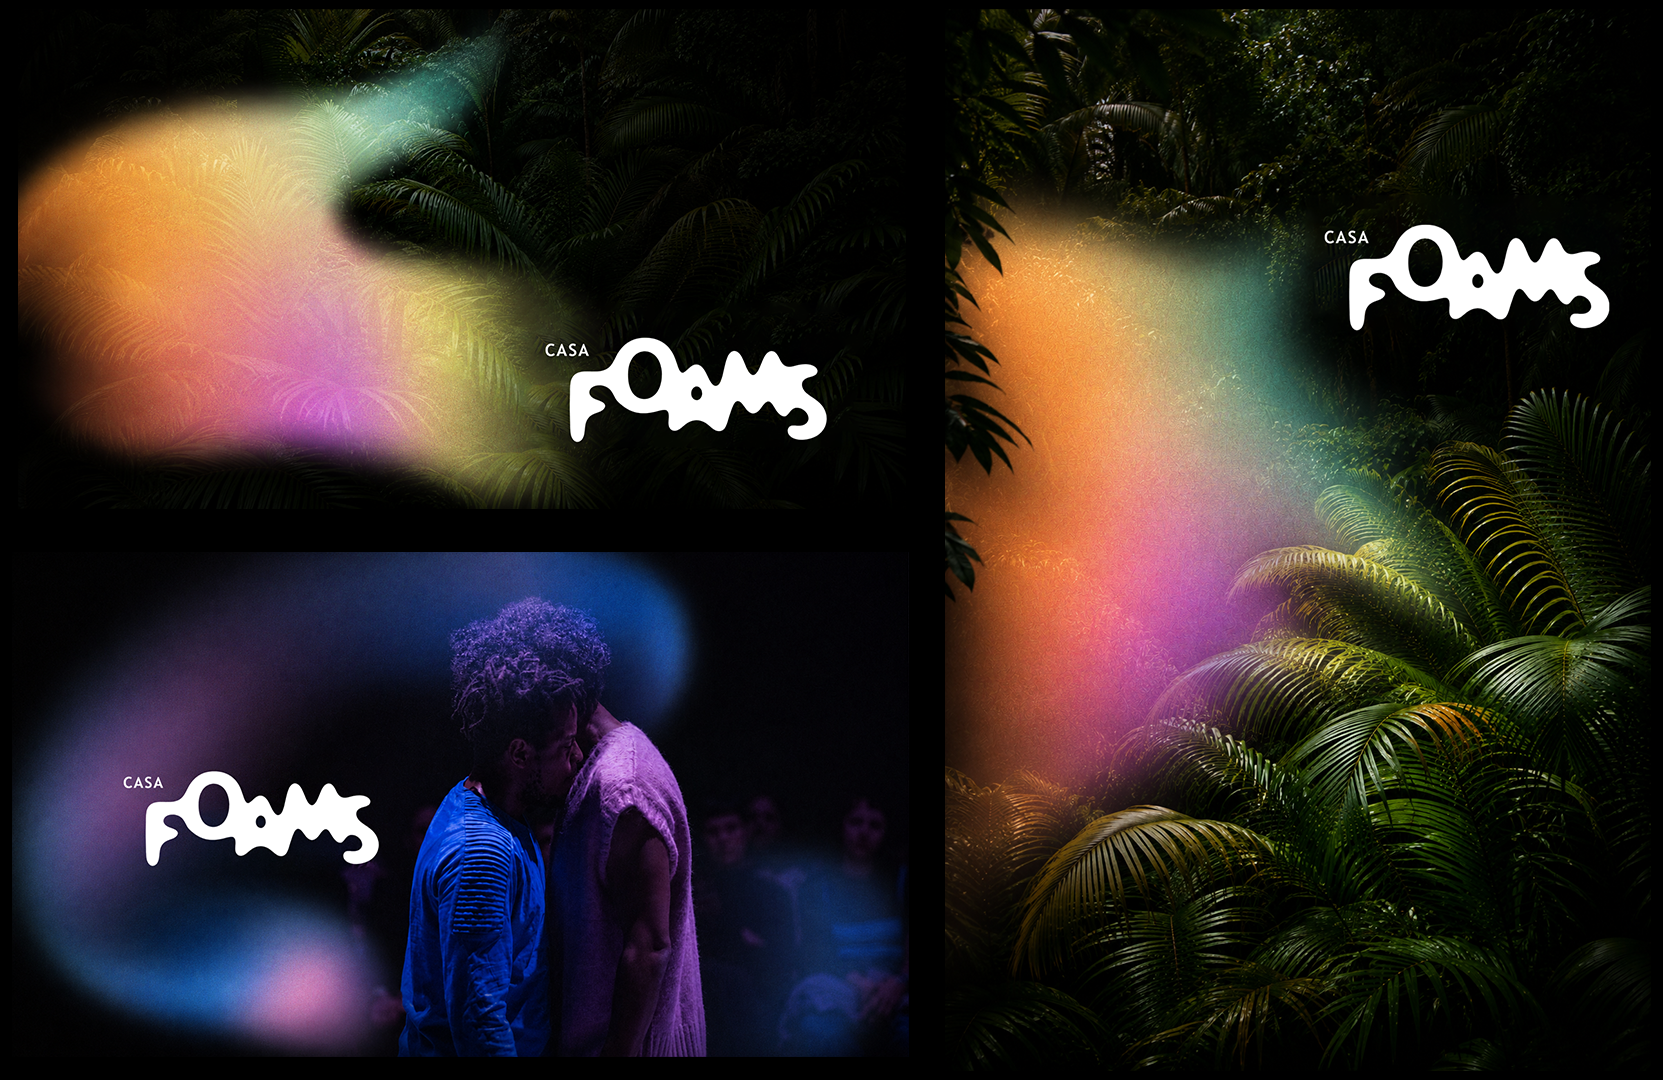
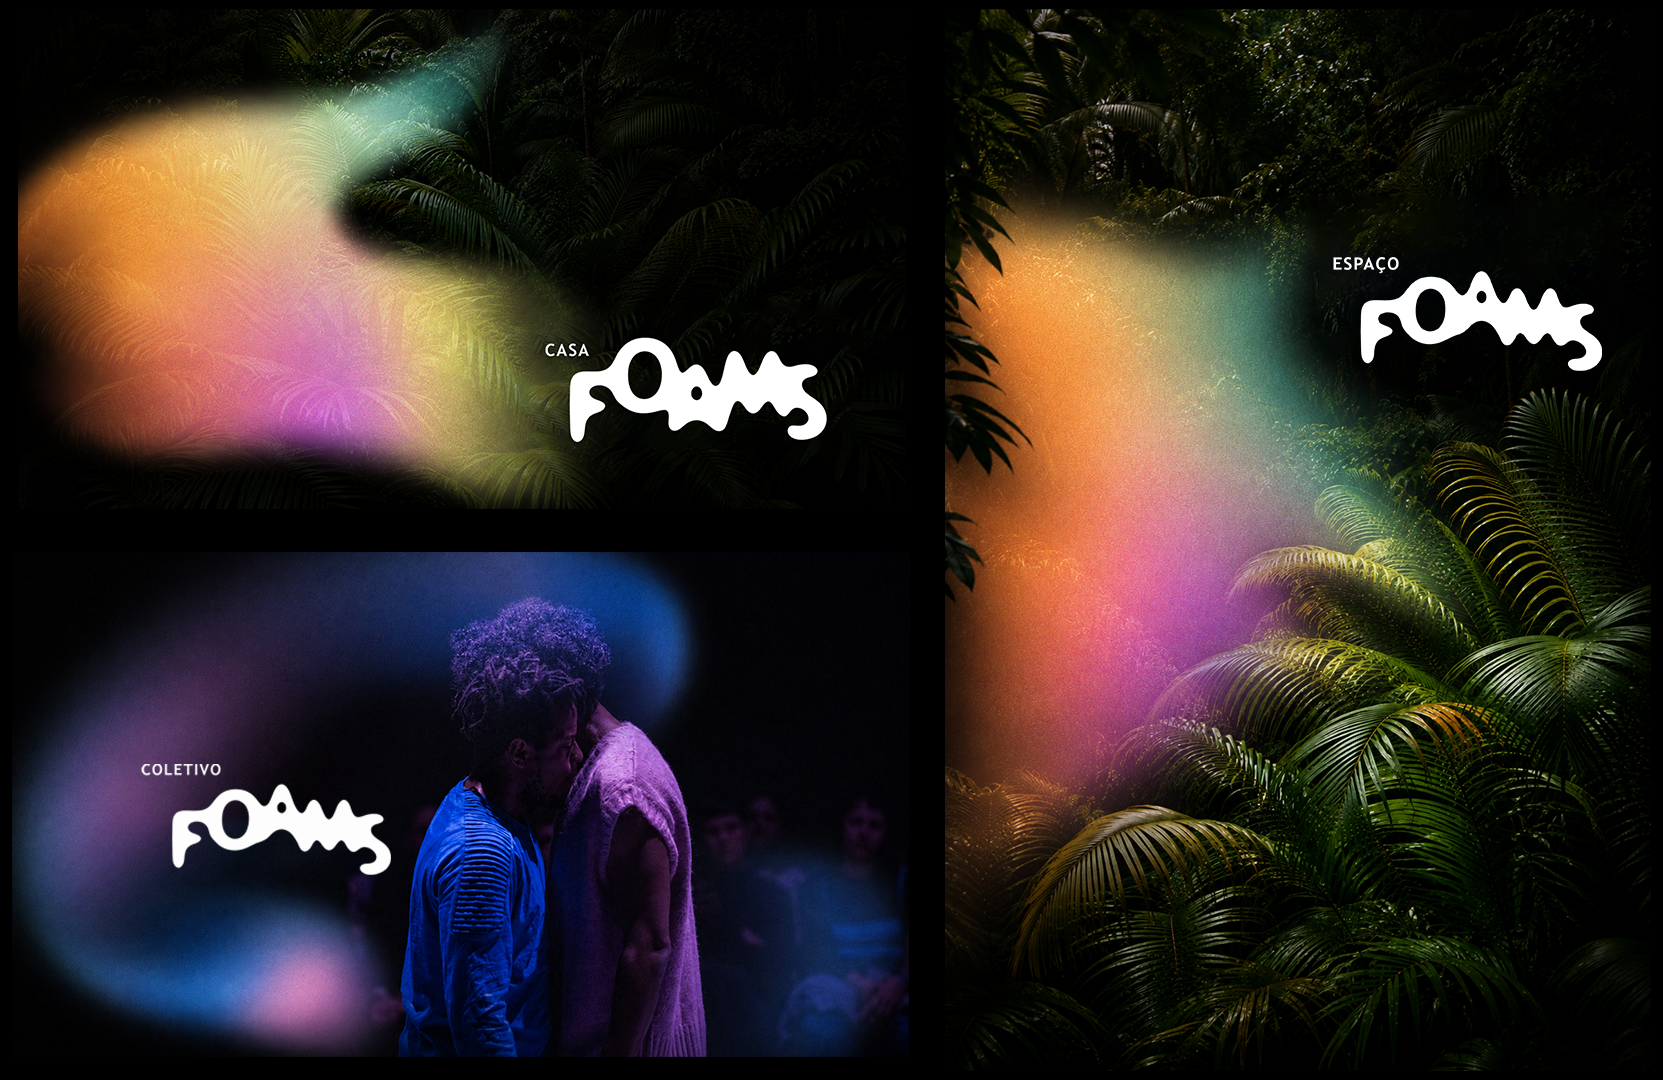
Add files via upload

Changed region(s): [[0.7974, 0.2139, 0.9814, 0.3361], [0.0613, 0.7028, 0.2453, 0.825]]

diff --git a/brand-guide/index.html b/brand-guide/index.html
@@ -1218,7 +1218,7 @@
         <a href="#generative-examples" data-i18n="nav-gen-examples">Exemplos Generativos</a>
         <a href="#closing" data-i18n="nav-closing">↓ Keep it fluid</a>
       </nav>
-      <div style="padding: 1.5rem 1.5rem 0; font-size: 0.68rem; color: var(--text-subtle); letter-spacing: 0.05em;">v5.0</div>
+      <div style="padding: 1.5rem 1.5rem 0; font-size: 0.68rem; color: var(--text-subtle); letter-spacing: 0.05em;">v5.1</div>
 
       <!-- BACK TO TOP — inside sticky sidebar so it's always in viewport -->
       <div id="back-to-top-wrap">
@@ -1235,7 +1235,7 @@
           <h2 data-i18n="overview-h2">FOAMS Brand Guidelines</h2>
           <p data-i18n="overview-p">We've created a set of guidelines to help you bring our brand to life consistently across every touchpoint. On this page you'll find our high-level guidelines and the assets you'll need.</p>
         </div>
-        <img src="header-image.png" alt="" style="width:100%; border-radius:8px; display:block; margin-top:1rem;">
+        <img src="header-image.png" alt="" style="width:100%; max-height:420px; object-fit:cover; object-position:center top; border-radius:8px; display:block; margin-top:1rem;">
       </section>
 
       <!-- LOGO -->